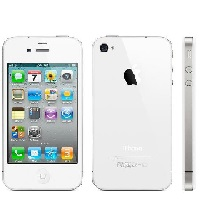
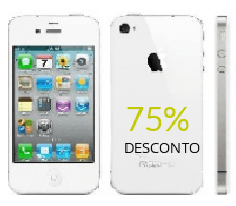
Add files via upload

diff --git a/index.html b/index.html
@@ -4,11 +4,17 @@
 <meta charset="utf-8"/>
     <title>Vendas de Celulares</title>
 <link rel="stylesheet" href="css/estilo.css"/>
+<script language="javascript"> 
+function setCookie(nome, valor, dias){ 
+diasms = (new Date()) .getTime() + 1000 * 3600 * 24 * dias; 
+dias = new Date(diasms); 
+expires = dias.toGMTString(); 
+document.cookie = escape(nome) + "=" + escape(valor) + "; expires=" + expires; 
+} 
+</script>
 </head>
 <body>
-  
-    
-     
+      
     <figcaption>
    
         <table class="opcoes-celulares">
@@ -43,5 +49,21 @@
 			<small>&copy; 2012-2018 Vendas de Celulares Cop. All Rights Reserved</small>
 		</footer>
     </div>
+<div class="contador"> </div>
+ <script language="javascript">
+if (!document.cookie){
+setCookie("cookie", "1", 365);
+document.write("<font face='verdana' size='1'> Contador de Visita: 1</font>");
+} else {
+var cont = document.cookie;
+var dividindo = cont.split("=");
+//document.write(dividindo[1]);
+var numero = parseInt(dividindo[1]);
+var soma = numero + 1;
+document.write("<font face='verdana' size='1'>Suas Visitas : " + soma + "</font>");
+setCookie("cookie", soma, 365);
+}
+</script>
+</div>
 </body>
 </html>

diff --git a/apple.html b/apple.html
@@ -5,14 +5,16 @@
 	<link rel="stylesheet" href="css/estilo.css"/>
 </head>
 <body>
-<div id="container">		
+    <div class="retorna">
+    <a href="index.html" title="Página Inicial">Voltar</a>
+    </div>
+<div id="container">	
+
 		<header>			
 			<div id="logo">
-				<h1>Apple</h1>
+				<h1>A maior loja virtual do Brasil!</h1>
 			</div>			
-				<a href="index.html" title="Página Inicial">
-				    Voltar
-				</a>
+				
 		</header>
 		<div>
             <section id="page-text">
@@ -21,7 +23,7 @@
 				 <section id="cel1">
                 <h1>iPhone 4s</h1>
                 <p><img src="img/apple/iphone%204s.png"></p> 
-                     <p>Celular iPhone 4s por apenas<br> <b>R$</b> 999,99</p>
+                     <p>Celular iPhone 4s com descontão de 75% da LOJA Virtual, por apenas<br> <b>R$</b> 999,99 </p>
                     <div style="clear: both;"></div>                 
                 </section>
                 

diff --git a/motorola.html b/motorola.html
@@ -5,16 +5,19 @@
 	<link rel="stylesheet" href="css/estilo.css"/>
 </head>
 <body>
+    <div class="retorna">
+    <a href="index.html" title="Página Inicial">Voltar</a>
+    </div>
+
 <div id="container">		
 		<header>			
 			<div id="logo">
-				<h1>Motorola</h1>
+				<h1>A maior loja virtual do Brasil!</h1>
 			</div>			
-				<a href="index.html" title="Página Inicial">
-				    Voltar
-				</a>
+				
 		</header>
 		<div>
+
             <section id="page-text">
 				<h1>Marca Motorola</h1> 
                 

diff --git a/nokia.html b/nokia.html
@@ -5,14 +5,15 @@
 	<link rel="stylesheet" href="css/estilo.css"/>
 </head>
 <body>
+    <div class="retorna">
+    <a href="index.html" title="Página Inicial">Voltar</a>
+    </div>
 <div id="container">		
 		<header>			
 			<div id="logo">
-				<h1>Nokia/Microsoft</h1>
-			</div>			
-				<a href="index.html" title="Página Inicial">
-				    Voltar
-				</a>
+				<h1>A maior loja virtual do Brasil!</h1>
+			</div>		
+				
 		</header>
 		<div>
             <section id="page-text">

diff --git a/css/estilo.css b/css/estilo.css
@@ -102,8 +102,9 @@ a:focus {
 }
 
 header div#logo {
-	float: left;
-	color: white;
+	
+	text-align: center; 
+	color: black;
 	padding-top: 0.9em;
 	font-size: 2em;
 	font-style: italic;
@@ -368,4 +369,13 @@ section#cel7.nearest{
 .footer{
  text-align: center;
     padding-top: 24px;
+}
+.retorna{
+	float: left;
+	color: black;
+	padding-top: 0.9em;
+	padding-left: 21px;
+	font-size: 2em;
+	font-style: italic;
+	font-family: Georgia;
 }

diff --git a/samsung.html b/samsung.html
@@ -6,14 +6,15 @@
     
 </head>
 <body>
+    <div class="retorna">
+    <a href="index.html" title="Página Inicial">Voltar</a>
+    </div>
 <div id="container">		
 		<header>			
 			<div id="logo">
-				<h1>Samsung</h1>
+				<h1>A maior loja virtual do Brasil!</h1>
 			</div>			
-				<a href="index.html" title="Página Inicial">
-				    Voltar
-				</a>
+				
 		</header>
 		<div>
             <section id="page-text">
